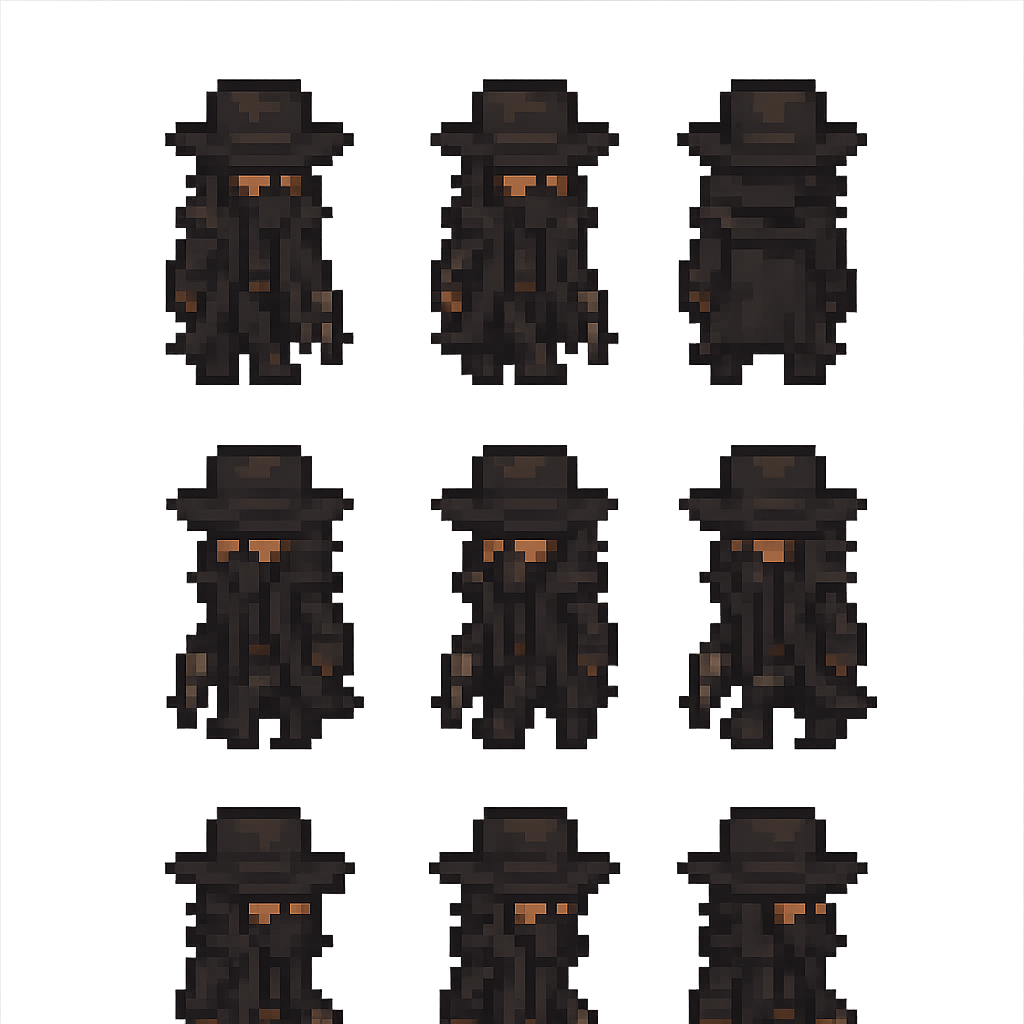
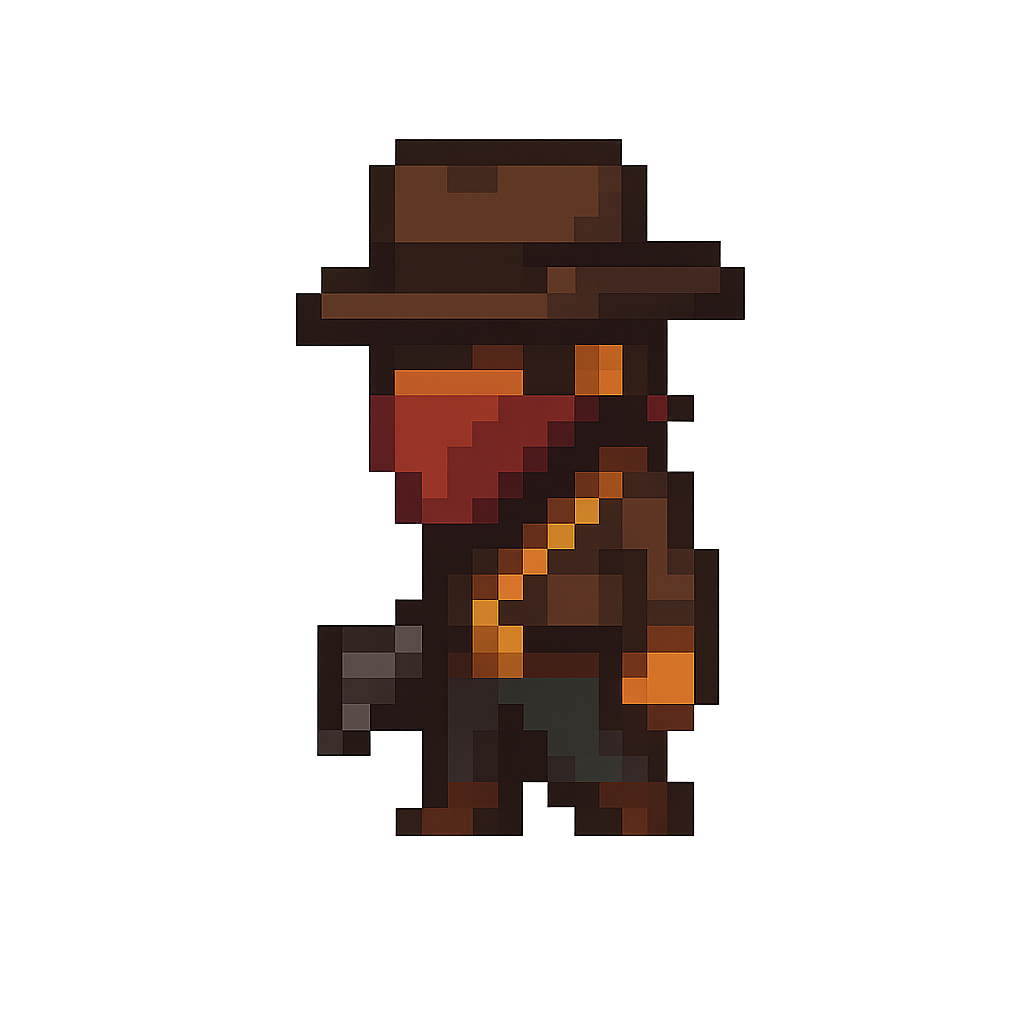
Aprimorando imagens 2

diff --git a/duelo.py b/duelo.py
@@ -20,25 +20,32 @@ CINZA_FUNDO = (100, 100, 100)
 VERDE = (0,255,0)
 
 # --- 5. Variáveis Principais do Jogo ---
-jogador1_rect = pygame.Rect(350, 250, 50, 100) 
-jogador2_rect = pygame.Rect(400, 250, 50, 100)
+jogador1_rect = pygame.Rect(350, 480, 50, 100) 
+jogador2_rect = pygame.Rect(400, 480, 50, 100)
 velocidade = 1
 estado_jogo = "ANDANDO"
 vencedor = None 
-fonte_vencedor = pygame.font.Font(None,60)
+fonte_vencedor = pygame.font.Font(None,45)
 tempo_sinal = random.uniform(3.0,5.0)
 print(f"Tempo sorteado: {tempo_sinal} segundos")
 
 tempo_inicio_espera = 0
 sinal_ativo = False 
 
-fundo_img = pygame.image.load("fundooeste.png").convert()
-cowboy1_img = pygame.image.load("cowboy1.png").convert_alpha()
-cowboy2_img = pygame.image.load("cowboy2.png").convert_alpha()
+fundo_img_original = pygame.image.load("fundooestenovo.png").convert()
+fundo_img = pygame.transform.scale(fundo_img_original, (largura_tela, altura_tela))
 
-tamanho_cowboy = (jogador1_rect.width, jogador1_rect.height)
-cowboy_img_redimens = pygame.transform.scale(cowboy1_img, tamanho_cowboy)
-cowboy_img_redimens = pygame.transform.scale(cowboy2_img, tamanho_cowboy)
+cowboybase = pygame.image.load("cowboy1.png").convert_alpha()
+tamanhojogador = cowboybase.get_size()
+jogador1_img = cowboybase 
+jogador2_img = pygame.transform.flip(cowboybase, True, False)
+pos_y = 250
+poxx_jogador1 = 350
+posx_jogador2 = 400 
+
+
+
+
 
 clock = pygame.time.Clock() 
 
@@ -74,9 +81,9 @@ while rodando:
     # --- 6b. Lógica do Jogo (Atualização de Variáveis) ---
 
     if estado_jogo == "ANDANDO":
-        jogador1_rect.x = jogador1_rect.x - velocidade
-        jogador2_rect.x = jogador2_rect.x + velocidade
-        if jogador1_rect.left < 100 or jogador2_rect.right > 700:
+        jogador1_rect.x = jogador1_rect.x + velocidade
+        jogador2_rect.x = jogador2_rect.x - velocidade
+        if jogador1_rect.left > 100 and jogador2_rect.right < 700:
             print("Parados! Esperando o sinal...")
             estado_jogo = "ESPERANDO"
             tempo_inicio_espera = pygame.time.get_ticks()
@@ -93,12 +100,9 @@ while rodando:
         tela.fill(VERDE)
     else:
         tela.blit(fundo_img, (0,0))
-    tela.blit(cowboy1_img, jogador1_rect)
-    tela.blit(cowboy2_img, jogador2_rect)
+    tela.blit(jogador1_img, jogador1_rect)
+    tela.blit(jogador2_img, jogador2_rect)
 
-
-    pygame.draw.rect(tela, BRANCO, jogador1_rect)
-    pygame.draw.rect(tela, BRANCO, jogador2_rect)
     if estado_jogo == "FIM":
         texto_surface = fonte_vencedor.render(f"VENCEDOR: {vencedor}", True, BRANCO)
         texto_rect = texto_surface.get_rect(center=(largura_tela/2,altura_tela/2))
